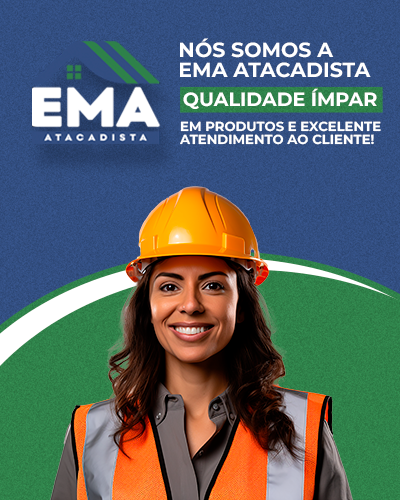
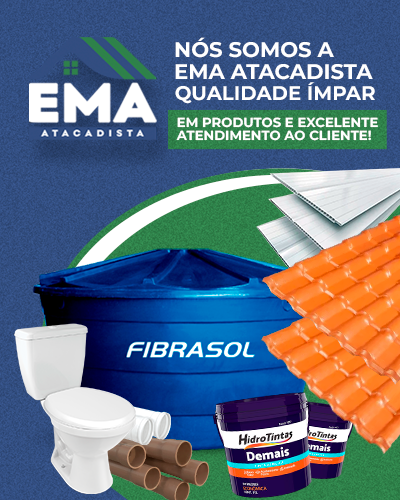
replace images

diff --git a/index.html b/index.html
@@ -62,7 +62,7 @@
         alt="imagem de fundo desktop"
       />
       <img
-        src="./assets/TABLET.png"
+        src="./assets/tablet.jpg"
         class="tablet-background"
         alt="imagem de fundo mobile"
       />
